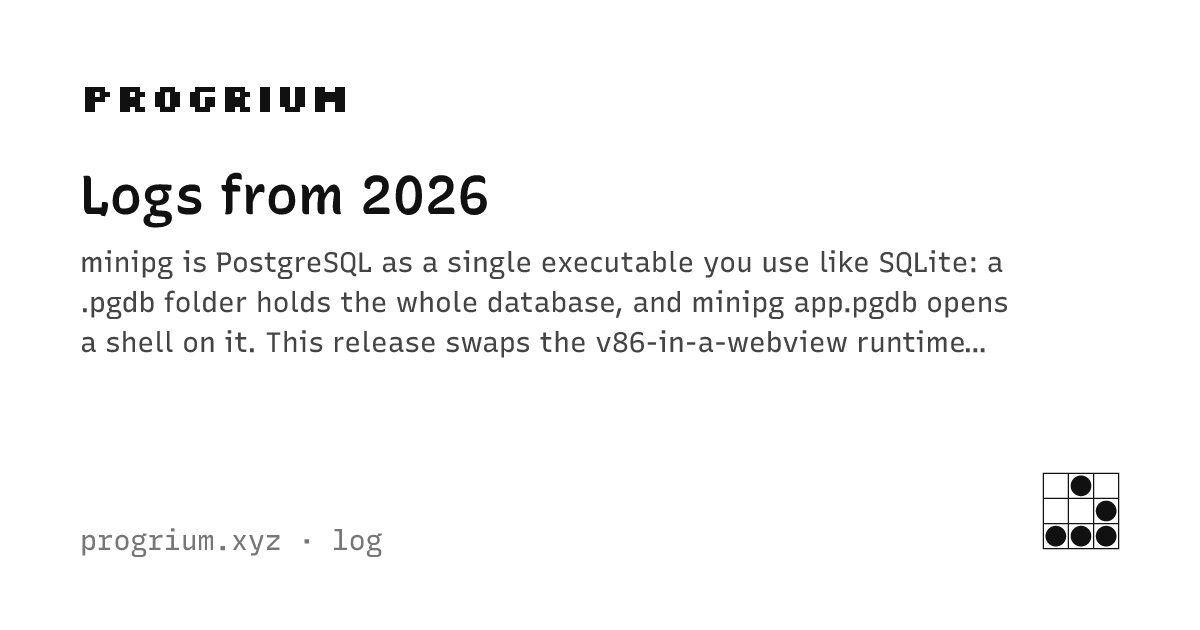
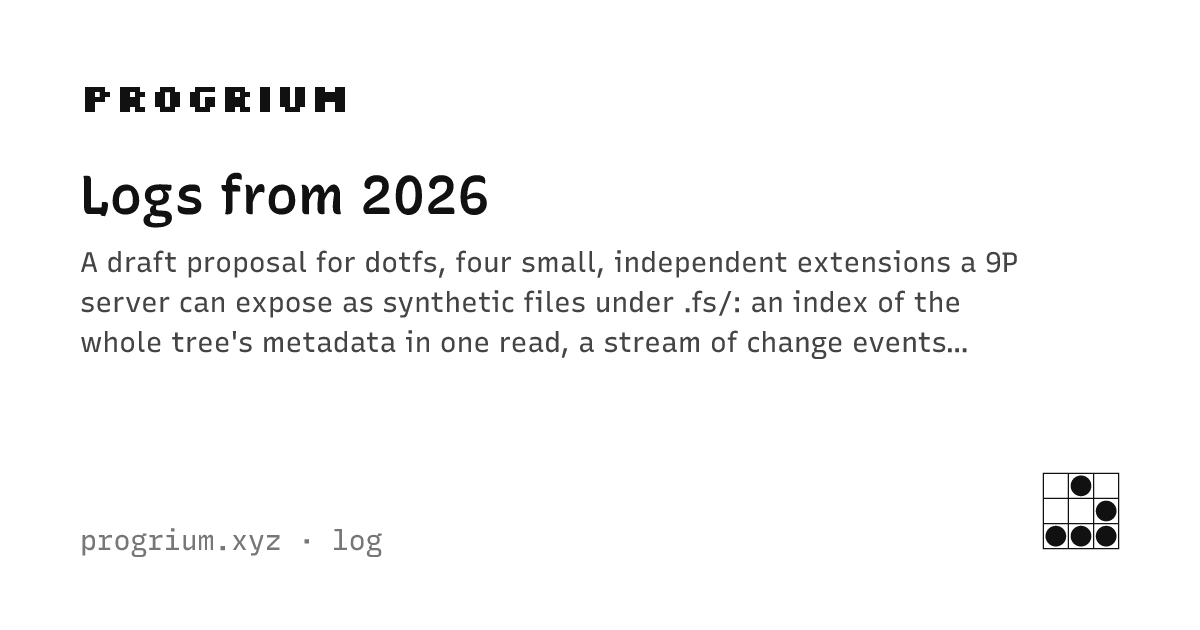
Deploying to gh-pages from @ progrium/progrium.xyz@4fd5a7fe7581b625dec6d0b8e3acf08ccf6c5c72 🚀

Changed region(s): [[0.0617, 0.3921, 0.8633, 0.573]]

diff --git a/tags/index.html b/tags/index.html
@@ -37,7 +37,7 @@
         <nav class="nav" aria-label="Site"><a href="/articles">articles</a><a href="/logs">logs</a><a href="/projects">projects</a><a href="/about">about</a></nav>
       </header>
       <main>
-        <p class="hub-projs"><a href="/tags/ai">ai</a><span class="yrs">1</span><a href="/tags/api">api</a><span class="yrs">4</span><a href="/tags/apptron">apptron</a><span class="yrs">8</span><a href="/tags/architecture">architecture</a><span class="yrs">2</span><a href="/tags/bash">bash</a><span class="yrs">1</span><a href="/tags/cli">cli</a><span class="yrs">2</span><a href="/tags/community">community</a><span class="yrs">2</span><a href="/tags/culture">culture</a><span class="yrs">1</span><a href="/tags/design">design</a><span class="yrs">2</span><a href="/tags/devlog">devlog</a><span class="yrs">7</span><a href="/tags/devops">devops</a><span class="yrs">2</span><a href="/tags/docker">docker</a><span class="yrs">1</span><a href="/tags/docs">docs</a><span class="yrs">1</span><a href="/tags/dokku">dokku</a><span class="yrs">1</span><a href="/tags/eventedweb">eventedweb</a><span class="yrs">4</span><a href="/tags/flynn">flynn</a><span class="yrs">1</span><a href="/tags/go">go</a><span class="yrs">8</span><a href="/tags/hackerdojo">hackerdojo</a><span class="yrs">2</span><a href="/tags/hackers">hackers</a><span class="yrs">2</span><a href="/tags/hacks">hacks</a><span class="yrs">1</span><a href="/tags/history">history</a><span class="yrs">1</span><a href="/tags/http">http</a><span class="yrs">3</span><a href="/tags/hyper9">hyper9</a><span class="yrs">1</span><a href="/tags/hypervisors">hypervisors</a><span class="yrs">1</span><a href="/tags/ideas">ideas</a><span class="yrs">1</span><a href="/tags/learning">learning</a><span class="yrs">1</span><a href="/tags/linux">linux</a><span class="yrs">1</span><a href="/tags/localtunnel">localtunnel</a><span class="yrs">3</span><a href="/tags/mac">mac</a><span class="yrs">2</span><a href="/tags/macos">macos</a><span class="yrs">1</span><a href="/tags/meta">meta</a><span class="yrs">1</span><a href="/tags/minipg">minipg</a><span class="yrs">1</span><a href="/tags/networking">networking</a><span class="yrs">5</span><a href="/tags/notifyio">notifyio</a><span class="yrs">1</span><a href="/tags/opensource">opensource</a><span class="yrs">7</span><a href="/tags/paas">paas</a><span class="yrs">2</span><a href="/tags/plan9">plan9</a><span class="yrs">2</span><a href="/tags/postgres">postgres</a><span class="yrs">1</span><a href="/tags/productivity">productivity</a><span class="yrs">4</span><a href="/tags/programming">programming</a><span class="yrs">8</span><a href="/tags/progrium">progrium</a><span class="yrs">1</span><a href="/tags/ptc">ptc</a><span class="yrs">1</span><a href="/tags/sandboxing">sandboxing</a><span class="yrs">1</span><a href="/tags/security">security</a><span class="yrs">1</span><a href="/tags/showdev">showdev</a><span class="yrs">14</span><a href="/tags/skypipe">skypipe</a><span class="yrs">1</span><a href="/tags/software">software</a><span class="yrs">2</span><a href="/tags/systems">systems</a><span class="yrs">3</span><a href="/tags/talk">talk</a><span class="yrs">1</span><a href="/tags/tractor">tractor</a><span class="yrs">13</span><a href="/tags/treehouse">treehouse</a><span class="yrs">2</span><a href="/tags/viewdocs">viewdocs</a><span class="yrs">1</span><a href="/tags/wanix">wanix</a><span class="yrs">2</span><a href="/tags/web">web</a><span class="yrs">4</span><a href="/tags/webdev">webdev</a><span class="yrs">1</span><a href="/tags/webframe">webframe</a><span class="yrs">2</span><a href="/tags/webhooks">webhooks</a><span class="yrs">6</span></p>
+        <p class="hub-projs"><a href="/tags/9p">9p</a><span class="yrs">1</span><a href="/tags/ai">ai</a><span class="yrs">1</span><a href="/tags/api">api</a><span class="yrs">4</span><a href="/tags/apptron">apptron</a><span class="yrs">8</span><a href="/tags/architecture">architecture</a><span class="yrs">2</span><a href="/tags/bash">bash</a><span class="yrs">1</span><a href="/tags/cli">cli</a><span class="yrs">2</span><a href="/tags/community">community</a><span class="yrs">2</span><a href="/tags/culture">culture</a><span class="yrs">1</span><a href="/tags/design">design</a><span class="yrs">2</span><a href="/tags/devlog">devlog</a><span class="yrs">7</span><a href="/tags/devops">devops</a><span class="yrs">2</span><a href="/tags/docker">docker</a><span class="yrs">1</span><a href="/tags/docs">docs</a><span class="yrs">1</span><a href="/tags/dokku">dokku</a><span class="yrs">1</span><a href="/tags/eventedweb">eventedweb</a><span class="yrs">4</span><a href="/tags/flynn">flynn</a><span class="yrs">1</span><a href="/tags/go">go</a><span class="yrs">8</span><a href="/tags/hackerdojo">hackerdojo</a><span class="yrs">2</span><a href="/tags/hackers">hackers</a><span class="yrs">2</span><a href="/tags/hacks">hacks</a><span class="yrs">1</span><a href="/tags/history">history</a><span class="yrs">1</span><a href="/tags/http">http</a><span class="yrs">3</span><a href="/tags/hyper9">hyper9</a><span class="yrs">1</span><a href="/tags/hypervisors">hypervisors</a><span class="yrs">1</span><a href="/tags/ideas">ideas</a><span class="yrs">1</span><a href="/tags/learning">learning</a><span class="yrs">1</span><a href="/tags/linux">linux</a><span class="yrs">1</span><a href="/tags/localtunnel">localtunnel</a><span class="yrs">3</span><a href="/tags/mac">mac</a><span class="yrs">2</span><a href="/tags/macos">macos</a><span class="yrs">1</span><a href="/tags/meta">meta</a><span class="yrs">1</span><a href="/tags/minipg">minipg</a><span class="yrs">1</span><a href="/tags/networking">networking</a><span class="yrs">5</span><a href="/tags/notifyio">notifyio</a><span class="yrs">1</span><a href="/tags/opensource">opensource</a><span class="yrs">7</span><a href="/tags/paas">paas</a><span class="yrs">2</span><a href="/tags/plan9">plan9</a><span class="yrs">3</span><a href="/tags/postgres">postgres</a><span class="yrs">1</span><a href="/tags/productivity">productivity</a><span class="yrs">4</span><a href="/tags/programming">programming</a><span class="yrs">8</span><a href="/tags/progrium">progrium</a><span class="yrs">1</span><a href="/tags/ptc">ptc</a><span class="yrs">1</span><a href="/tags/sandboxing">sandboxing</a><span class="yrs">1</span><a href="/tags/security">security</a><span class="yrs">1</span><a href="/tags/showdev">showdev</a><span class="yrs">14</span><a href="/tags/skypipe">skypipe</a><span class="yrs">1</span><a href="/tags/software">software</a><span class="yrs">2</span><a href="/tags/systems">systems</a><span class="yrs">3</span><a href="/tags/talk">talk</a><span class="yrs">1</span><a href="/tags/tractor">tractor</a><span class="yrs">13</span><a href="/tags/treehouse">treehouse</a><span class="yrs">2</span><a href="/tags/viewdocs">viewdocs</a><span class="yrs">1</span><a href="/tags/wanix">wanix</a><span class="yrs">2</span><a href="/tags/web">web</a><span class="yrs">4</span><a href="/tags/webdev">webdev</a><span class="yrs">1</span><a href="/tags/webframe">webframe</a><span class="yrs">2</span><a href="/tags/webhooks">webhooks</a><span class="yrs">6</span></p>
       </main>
       <footer class="foot">
         <span>

diff --git a/logs/2026/11-19/index.html b/logs/2026/11-19/index.html
@@ -1,0 +1,90 @@
+<!DOCTYPE html>
+<html lang="en">
+  <head>
+    <meta charset="utf-8"/>
+    <meta name="viewport" content="width=device-width, initial-scale=1"/>
+    <title>The dotfs protocol for 9P · progrium</title>
+    <meta name="description" content="A draft proposal for dotfs, four small, independent extensions a 9P server can expose as synthetic files under .fs/: an index of the whole tree&#39;s metadata in one read, a stream of…"/>
+    <script>try{var t=localStorage.getItem("theme");if(t)document.documentElement.setAttribute("data-theme",t)}catch(e){}</script>
+    <link rel="preload" href="/_assets/fonts/Recursive.woff2" as="font" type="font/woff2" crossorigin="anonymous"/>
+    <link rel="stylesheet" href="/_assets/style.css"/>
+    <script src="/_assets/site.js" defer></script>
+    <link rel="icon" href="/_assets/glider.svg"/>
+    <link rel="alternate" type="application/rss+xml" title="progrium.xyz: everything" href="/feed.xml"/>
+    <link rel="alternate" type="application/rss+xml" title="progrium.xyz: articles" href="/articles/feed.xml"/>
+    <link rel="alternate" type="application/rss+xml" title="progrium.xyz: logs" href="/logs/feed.xml"/>
+    <link rel="alternate" type="text/plain" href="/logs/2026/11-19.txt"/>
+    <link rel="canonical" href="https://progrium.xyz/logs/2026/11-19"/>
+    <meta property="og:site_name" content="progrium.xyz"/>
+    <meta property="og:type" content="website"/>
+    <meta property="og:title" content="The dotfs protocol for 9P"/>
+    <meta property="og:description" content="A draft proposal for dotfs, four small, independent extensions a 9P server can expose as synthetic files under .fs/: an index of the whole tree&#39;s metadata in one read, a stream of…"/>
+    <meta property="og:url" content="https://progrium.xyz/logs/2026/11-19"/>
+    <meta name="twitter:card" content="summary_large_image"/>
+    <meta name="twitter:creator" content="@progrium"/>
+    <meta property="og:image" content="https://progrium.xyz/logs/2026/11-19.card.png"/>
+    <meta property="og:image:width" content="1200"/>
+    <meta property="og:image:height" content="630"/>
+    <meta property="article:published_time" content="2026-11-19T00:00:00Z"/>
+  </head>
+  <body>
+    <div class="site">
+      <header class="head">
+        <svg class="mark" viewBox="8 8 124 124" aria-hidden="true">
+          <path stroke-width="122" stroke-dasharray="2,38" d="m9,70h122M70,9v122"></path>
+          <path stroke-width="33" stroke-linecap="round" d="m70,30h0m40,40h0m-80,40v0m40,0h0m40,0h0"></path>
+        </svg>
+        <a class="wordmark" href="/">progrium</a><span class="who">Jeff Lindsay</span>
+        <nav class="nav" aria-label="Site"><a href="/articles">articles</a><a href="/logs" aria-current="page">logs</a><a href="/projects">projects</a><a href="/about">about</a></nav>
+      </header>
+      <main>
+        <article class="post logpost e-link">
+          <div class="byline">
+            <time datetime="2026-11-19">2026-11-19</time>
+            · link · <span class="tags"><a href="/tags/plan9">plan9</a><a href="/tags/9p">9p</a></span>
+          </div>
+          <h1 class="link-h">
+            <span class="emoji" aria-hidden="true">📝</span>
+            <a href="https://progrium.xyz/docs/proposals/9p-dotfs/">The dotfs protocol for 9P ↗</a>
+            <span class="src">progrium.xyz</span>
+          </h1>
+          <div class="e-body">
+            <p>A draft proposal for dotfs, four small, independent extensions a 9P server can expose as synthetic files under <code>.fs/</code>: an index of the whole tree's metadata in one read, a stream of change events, path operations like <code>mv</code> and <code>rm</code> without walk, open, and clunk sequences, and staged commits that publish atomically only if a path is still at an expected version. A server implements just the ones it needs, and clients discover each by whether its file exists. Together they're enough to build a Dropbox-style synced folder, but nothing in the first three depends on sync.</p>
+          </div>
+          <div class="reply-row">
+            <a class="key" href="https://github.com/progrium/progrium.xyz/discussions">reply on GitHub ↗</a>
+            <a class="backlinks" href="/logs/2026/11">all of November 2026</a>
+          </div>
+          <nav class="prevnext" aria-label="More logs"><a href="/logs/2026/11-17" class="prev"><span class="pn-k">← previous · Nov 17</span>🚀 minipg v0.3</a></nav>
+        </article>
+      </main>
+      <footer class="foot">
+        <span>
+          [ 
+          <a href="/logs/2026/11-19.txt" title="this page as plain text">txt</a>
+          · <a href="/feeds" title="feeds">rss</a> · 
+          <a href="https://github.com/progrium/progrium.xyz/blob/main/logs/2026/11-19.md" title="this page&#39;s source on GitHub">edit</a>
+          ]
+        </span>
+        <span class="elsewhere">
+          <a href="/newsletter"><strong>newsletter</strong></a><a href="https://github.com/progrium">github</a><a href="https://mas.to/@progrium">mastodon</a>
+          <a href="https://bsky.app/profile/progrium.bsky.social">bsky</a>
+          <a href="https://x.com/progrium">x</a>
+        </span>
+        <span class="tended">
+          <span class="keys">
+            <button type="button" class="key small" id="modekey" aria-label="switch between light and dark">◐ <span class="mk-l">dark</span></button>
+            <button type="button" class="key small" id="bootkey" title="boot 9/ux: browse this site as files (reload to exit)">🖥 boot 9/ux</button>
+          </span>
+          <span>
+            last tended 2026-11-19 ·
+            <span class="built">
+              built with 
+              <a href="https://progrium.github.io/taragen/">taragen</a>
+            </span>
+          </span>
+        </span>
+      </footer>
+    </div>
+  </body>
+</html>

diff --git a/tags/9p/index.html b/tags/9p/index.html
@@ -1,0 +1,95 @@
+<!DOCTYPE html>
+<html lang="en">
+  <head>
+    <meta charset="utf-8"/>
+    <meta name="viewport" content="width=device-width, initial-scale=1"/>
+    <title>Tagged 9p · progrium</title>
+    <meta name="description" content="Jeff Lindsay, aka progrium. Simple tools that make computers more programmable."/>
+    <script>try{var t=localStorage.getItem("theme");if(t)document.documentElement.setAttribute("data-theme",t)}catch(e){}</script>
+    <link rel="preload" href="/_assets/fonts/Recursive.woff2" as="font" type="font/woff2" crossorigin="anonymous"/>
+    <link rel="stylesheet" href="/_assets/style.css"/>
+    <script src="/_assets/site.js" defer></script>
+    <link rel="icon" href="/_assets/glider.svg"/>
+    <link rel="alternate" type="application/rss+xml" title="progrium.xyz: everything" href="/feed.xml"/>
+    <link rel="alternate" type="application/rss+xml" title="progrium.xyz: articles" href="/articles/feed.xml"/>
+    <link rel="alternate" type="application/rss+xml" title="progrium.xyz: logs" href="/logs/feed.xml"/>
+    <link rel="alternate" type="text/plain" href="/tags/9p.txt"/>
+    <link rel="canonical" href="https://progrium.xyz/tags/9p"/>
+    <meta property="og:site_name" content="progrium.xyz"/>
+    <meta property="og:type" content="website"/>
+    <meta property="og:title" content="Tagged 9p"/>
+    <meta property="og:description" content="Jeff Lindsay, aka progrium. Simple tools that make computers more programmable."/>
+    <meta property="og:url" content="https://progrium.xyz/tags/9p"/>
+    <meta name="twitter:card" content="summary_large_image"/>
+    <meta name="twitter:creator" content="@progrium"/>
+    <meta property="og:image" content="https://progrium.xyz/tags/9p.card.png"/>
+    <meta property="og:image:width" content="1200"/>
+    <meta property="og:image:height" content="630"/>
+  </head>
+  <body>
+    <div class="site">
+      <header class="head">
+        <svg class="mark" viewBox="8 8 124 124" aria-hidden="true">
+          <path stroke-width="122" stroke-dasharray="2,38" d="m9,70h122M70,9v122"></path>
+          <path stroke-width="33" stroke-linecap="round" d="m70,30h0m40,40h0m-80,40v0m40,0h0m40,0h0"></path>
+        </svg>
+        <a class="wordmark" href="/">progrium</a><span class="who">Jeff Lindsay</span>
+        <nav class="nav" aria-label="Site"><a href="/articles">articles</a><a href="/logs">logs</a><a href="/projects">projects</a><a href="/about">about</a></nav>
+      </header>
+      <main>
+        <div class="hub">
+          <div class="hub-meta">tag · 1 entry</div>
+          <h1 class="pixel-h1">9p</h1>
+          <h2 class="sec">tagged 9p</h2>
+          <div class="yeargroup">
+            <div class="yr">2026</div>
+            <div class="stream">
+              <article class="e e-link e-link">
+                <div class="meta">
+                  <time datetime="2026-11-19">Nov 19</time>
+                  <span class="k">link</span>
+                </div>
+                <div class="e-body">
+                  <h3>
+                    <span class="emoji" aria-hidden="true">📝</span>
+                    <a href="https://progrium.xyz/docs/proposals/9p-dotfs/">The dotfs protocol for 9P ↗</a>
+                    <span class="src">progrium.xyz</span>
+                  </h3>
+                  <p>A draft proposal for dotfs, four small, independent extensions a 9P server can expose as synthetic files under <code>.fs/</code>: an index of the whole tree's metadata in one read, a stream of change events, path operations like <code>mv</code> and <code>rm</code> without walk, open, and clunk sequences, and staged commits that publish atomically only if a path is still at an expected version. A server implements just the ones it needs, and clients discover each by whether its file exists. Together they're enough to build a Dropbox-style synced folder, but nothing in the first three depends on sync.</p>
+                  <a class="cont" href="/logs/2026/11-19">permalink</a>
+                </div>
+              </article>
+            </div>
+          </div>
+        </div>
+      </main>
+      <footer class="foot">
+        <span>
+          [ 
+          <a href="/tags/9p.txt" title="this page as plain text">txt</a>
+          · <a href="/feeds" title="feeds">rss</a> · 
+          <a href="https://github.com/progrium/progrium.xyz/blob/main/tags/%5Btag%5D.jsx" title="this page&#39;s source on GitHub">edit</a>
+          ]
+        </span>
+        <span class="elsewhere">
+          <a href="/newsletter"><strong>newsletter</strong></a><a href="https://github.com/progrium">github</a><a href="https://mas.to/@progrium">mastodon</a>
+          <a href="https://bsky.app/profile/progrium.bsky.social">bsky</a>
+          <a href="https://x.com/progrium">x</a>
+        </span>
+        <span class="tended">
+          <span class="keys">
+            <button type="button" class="key small" id="modekey" aria-label="switch between light and dark">◐ <span class="mk-l">dark</span></button>
+            <button type="button" class="key small" id="bootkey" title="boot 9/ux: browse this site as files (reload to exit)">🖥 boot 9/ux</button>
+          </span>
+          <span>
+            last tended 2026-11-19 ·
+            <span class="built">
+              built with 
+              <a href="https://progrium.github.io/taragen/">taragen</a>
+            </span>
+          </span>
+        </span>
+      </footer>
+    </div>
+  </body>
+</html>

diff --git a/index.html b/index.html
@@ -56,6 +56,21 @@
           <div class="stream">
             <article class="e e-link e-link">
               <div class="meta">
+                <time datetime="2026-11-19">Nov 19</time>
+                <span class="k">link</span>
+              </div>
+              <div class="e-body">
+                <h3>
+                  <span class="emoji" aria-hidden="true">📝</span>
+                  <a href="https://progrium.xyz/docs/proposals/9p-dotfs/">The dotfs protocol for 9P ↗</a>
+                  <span class="src">progrium.xyz</span>
+                </h3>
+                <p>A draft proposal for dotfs, four small, independent extensions a 9P server can expose as synthetic files under <code>.fs/</code>: an index of the whole tree's metadata in one read, a stream of change events, path operations like <code>mv</code> and <code>rm</code> without walk, open, and clunk sequences, and staged commits that publish atomically only if a path is still at an expected version. A server implements just the ones it needs, and clients discover each by whether its file exists. Together they're enough to build a Dropbox-style synced folder, but nothing in the first three depends on sync.</p>
+                <a class="cont" href="/logs/2026/11-19">permalink</a>
+              </div>
+            </article>
+            <article class="e e-link e-link">
+              <div class="meta">
                 <time datetime="2026-11-17">Nov 17</time>
                 <span class="k">link</span>
               </div>
@@ -214,21 +229,6 @@
                   <a href="/articles/2025/vscode-as-product-framework">Turning VS Code into a Product Framework</a>
                 </h3>
                 <p class="dek">Visual Studio Code is no longer just a developer tool.</p>
-              </div>
-            </article>
-            <article class="e e-article e-article">
-              <div class="meta">
-                <time datetime="2025-05-05">May 05</time>
-                <span class="k">article</span><span class="len">4 min</span>
-              </div>
-              <div class="e-body">
-                <h3>
-                  <a href="/articles/2025/spirit-of-plan9-on-the-web">The Spirit of Plan 9 on the Web</a>
-                </h3>
-                <p class="dek">
-                  If you go back to the first talk ever given on webhooks, it opens on the
-                  command-line.
-                </p>
               </div>
             </article>
           </div>

diff --git a/tags/plan9/index.html b/tags/plan9/index.html
@@ -38,7 +38,7 @@
       </header>
       <main>
         <div class="hub">
-          <div class="hub-meta">tag · 2 projects · 2 entries</div>
+          <div class="hub-meta">tag · 2 projects · 3 entries</div>
           <h1 class="pixel-h1">plan9</h1>
           <h2 class="sec">projects</h2>
           <p class="hub-projs"><a href="/projects#h9">🐇 h9</a><a href="/projects#wanix">🧩 Wanix</a></p>
@@ -46,6 +46,21 @@
           <div class="yeargroup">
             <div class="yr">2026</div>
             <div class="stream">
+              <article class="e e-link e-link">
+                <div class="meta">
+                  <time datetime="2026-11-19">Nov 19</time>
+                  <span class="k">link</span>
+                </div>
+                <div class="e-body">
+                  <h3>
+                    <span class="emoji" aria-hidden="true">📝</span>
+                    <a href="https://progrium.xyz/docs/proposals/9p-dotfs/">The dotfs protocol for 9P ↗</a>
+                    <span class="src">progrium.xyz</span>
+                  </h3>
+                  <p>A draft proposal for dotfs, four small, independent extensions a 9P server can expose as synthetic files under <code>.fs/</code>: an index of the whole tree's metadata in one read, a stream of change events, path operations like <code>mv</code> and <code>rm</code> without walk, open, and clunk sequences, and staged commits that publish atomically only if a path is still at an expected version. A server implements just the ones it needs, and clients discover each by whether its file exists. Together they're enough to build a Dropbox-style synced folder, but nothing in the first three depends on sync.</p>
+                  <a class="cont" href="/logs/2026/11-19">permalink</a>
+                </div>
+              </article>
               <article class="e e-link e-link">
                 <div class="meta">
                   <time datetime="2026-11-01">Nov 01</time>

diff --git a/logs/2026/11/index.html b/logs/2026/11/index.html
@@ -43,6 +43,19 @@
           </h2>
           <article class="e e-link e-link">
             <div class="meta">
+              <a class="permalink" href="/logs/2026/11-19">2026-11-19</a>
+            </div>
+            <div class="e-body">
+              <h3>
+                <span class="emoji" aria-hidden="true">📝</span>
+                <a href="https://progrium.xyz/docs/proposals/9p-dotfs/">The dotfs protocol for 9P ↗</a>
+                <span class="src">progrium.xyz</span>
+              </h3>
+              <p>A draft proposal for dotfs, four small, independent extensions a 9P server can expose as synthetic files under <code>.fs/</code>: an index of the whole tree's metadata in one read, a stream of change events, path operations like <code>mv</code> and <code>rm</code> without walk, open, and clunk sequences, and staged commits that publish atomically only if a path is still at an expected version. A server implements just the ones it needs, and clients discover each by whether its file exists. Together they're enough to build a Dropbox-style synced folder, but nothing in the first three depends on sync.</p>
+            </div>
+          </article>
+          <article class="e e-link e-link">
+            <div class="meta">
               <a class="permalink" href="/logs/2026/11-17">2026-11-17</a>
             </div>
             <div class="e-body">

diff --git a/logs/2026/index.html b/logs/2026/index.html
@@ -43,6 +43,19 @@
           </h2>
           <article class="e e-link e-link">
             <div class="meta">
+              <a class="permalink" href="/logs/2026/11-19">2026-11-19</a>
+            </div>
+            <div class="e-body">
+              <h3>
+                <span class="emoji" aria-hidden="true">📝</span>
+                <a href="https://progrium.xyz/docs/proposals/9p-dotfs/">The dotfs protocol for 9P ↗</a>
+                <span class="src">progrium.xyz</span>
+              </h3>
+              <p>A draft proposal for dotfs, four small, independent extensions a 9P server can expose as synthetic files under <code>.fs/</code>: an index of the whole tree's metadata in one read, a stream of change events, path operations like <code>mv</code> and <code>rm</code> without walk, open, and clunk sequences, and staged commits that publish atomically only if a path is still at an expected version. A server implements just the ones it needs, and clients discover each by whether its file exists. Together they're enough to build a Dropbox-style synced folder, but nothing in the first three depends on sync.</p>
+            </div>
+          </article>
+          <article class="e e-link e-link">
+            <div class="meta">
               <a class="permalink" href="/logs/2026/11-17">2026-11-17</a>
             </div>
             <div class="e-body">

diff --git a/logs/index.html b/logs/index.html
@@ -43,6 +43,19 @@
           </h2>
           <article class="e e-link e-link">
             <div class="meta">
+              <a class="permalink" href="/logs/2026/11-19">2026-11-19</a>
+            </div>
+            <div class="e-body">
+              <h3>
+                <span class="emoji" aria-hidden="true">📝</span>
+                <a href="https://progrium.xyz/docs/proposals/9p-dotfs/">The dotfs protocol for 9P ↗</a>
+                <span class="src">progrium.xyz</span>
+              </h3>
+              <p>A draft proposal for dotfs, four small, independent extensions a 9P server can expose as synthetic files under <code>.fs/</code>: an index of the whole tree's metadata in one read, a stream of change events, path operations like <code>mv</code> and <code>rm</code> without walk, open, and clunk sequences, and staged commits that publish atomically only if a path is still at an expected version. A server implements just the ones it needs, and clients discover each by whether its file exists. Together they're enough to build a Dropbox-style synced folder, but nothing in the first three depends on sync.</p>
+            </div>
+          </article>
+          <article class="e e-link e-link">
+            <div class="meta">
               <a class="permalink" href="/logs/2026/11-17">2026-11-17</a>
             </div>
             <div class="e-body">

diff --git a/logs/2026/11-17/index.html b/logs/2026/11-17/index.html
@@ -55,7 +55,7 @@
             <a class="key" href="https://github.com/progrium/progrium.xyz/discussions">reply on GitHub ↗</a>
             <a class="backlinks" href="/logs/2026/11">all of November 2026</a>
           </div>
-          <nav class="prevnext" aria-label="More logs"><a href="/logs/2026/11-14" class="prev"><span class="pn-k">← previous · Nov 14</span>🛠 tailcat: Tailscale without Tailscale, by Tailscale</a></nav>
+          <nav class="prevnext" aria-label="More logs"><a href="/logs/2026/11-14" class="prev"><span class="pn-k">← previous · Nov 14</span>🛠 tailcat: Tailscale without Tailscale, by Tailscale</a><a href="/logs/2026/11-19" class="next"><span class="pn-k">next → · Nov 19</span>📝 The dotfs protocol for 9P</a></nav>
         </article>
       </main>
       <footer class="foot">
